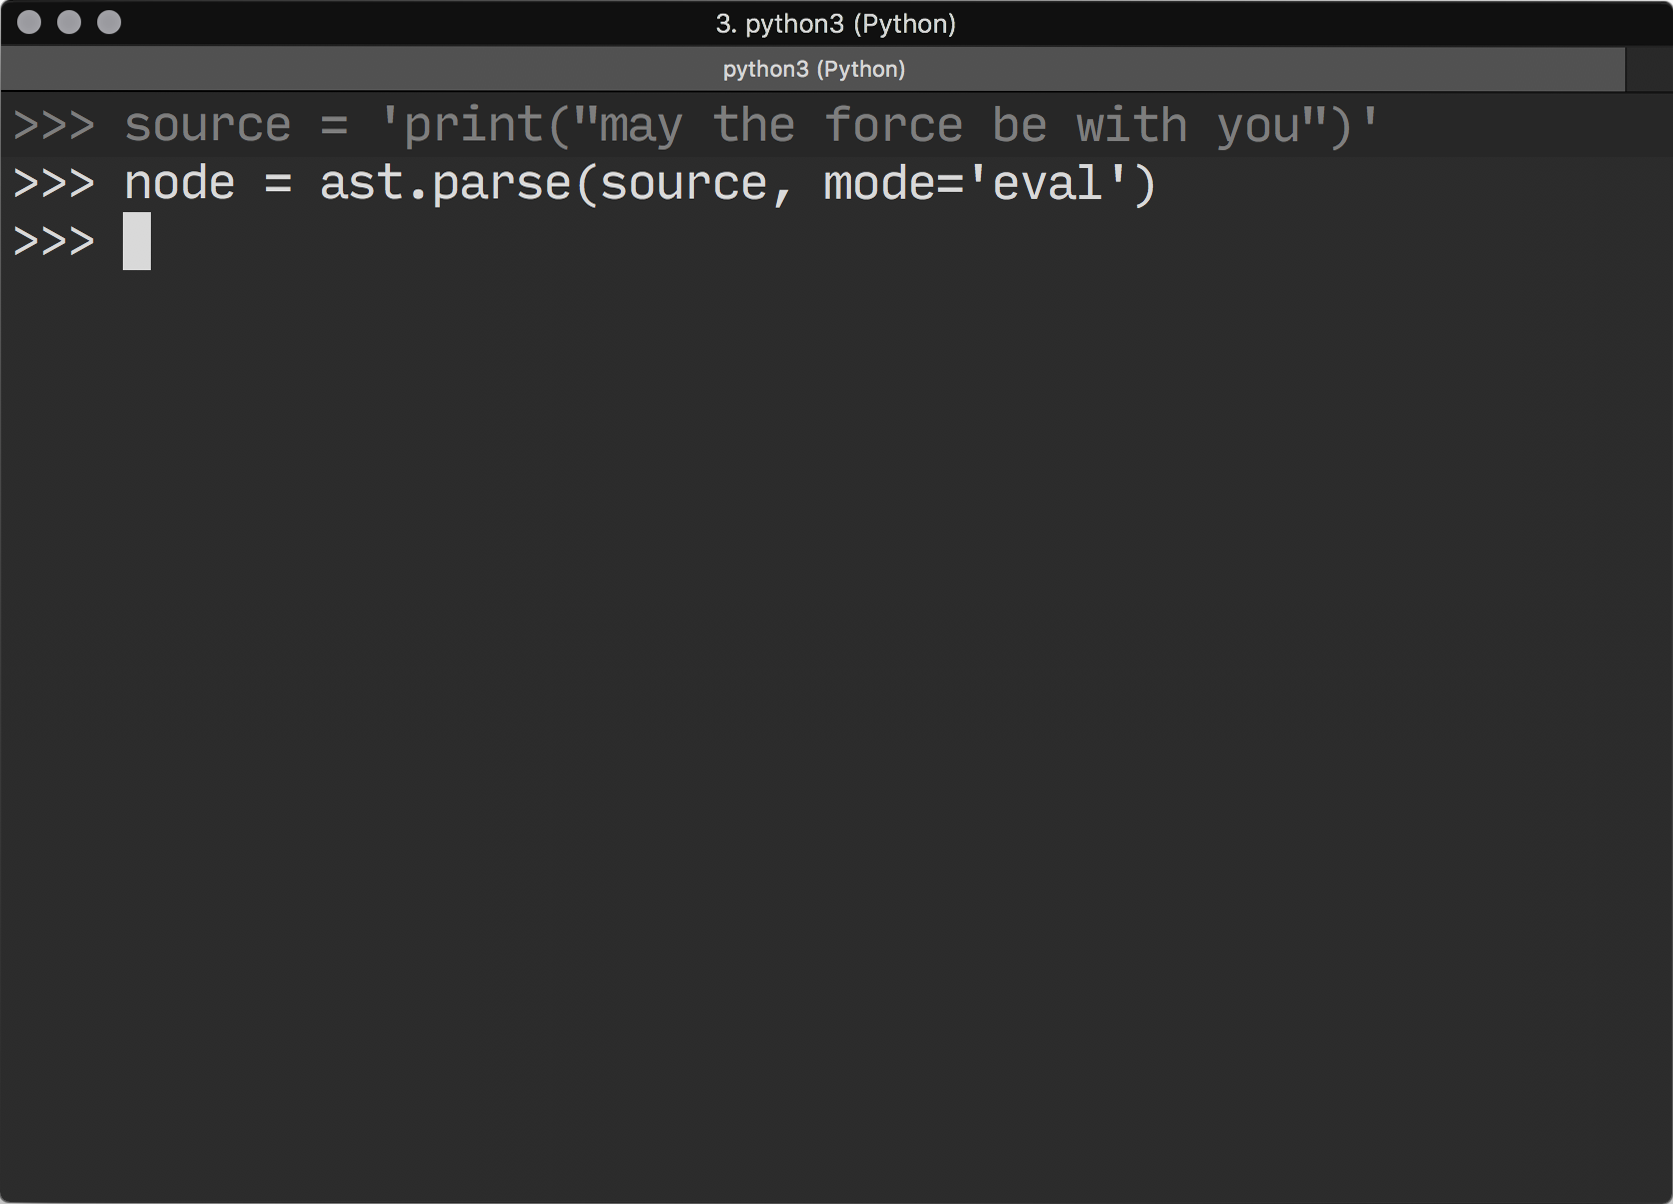
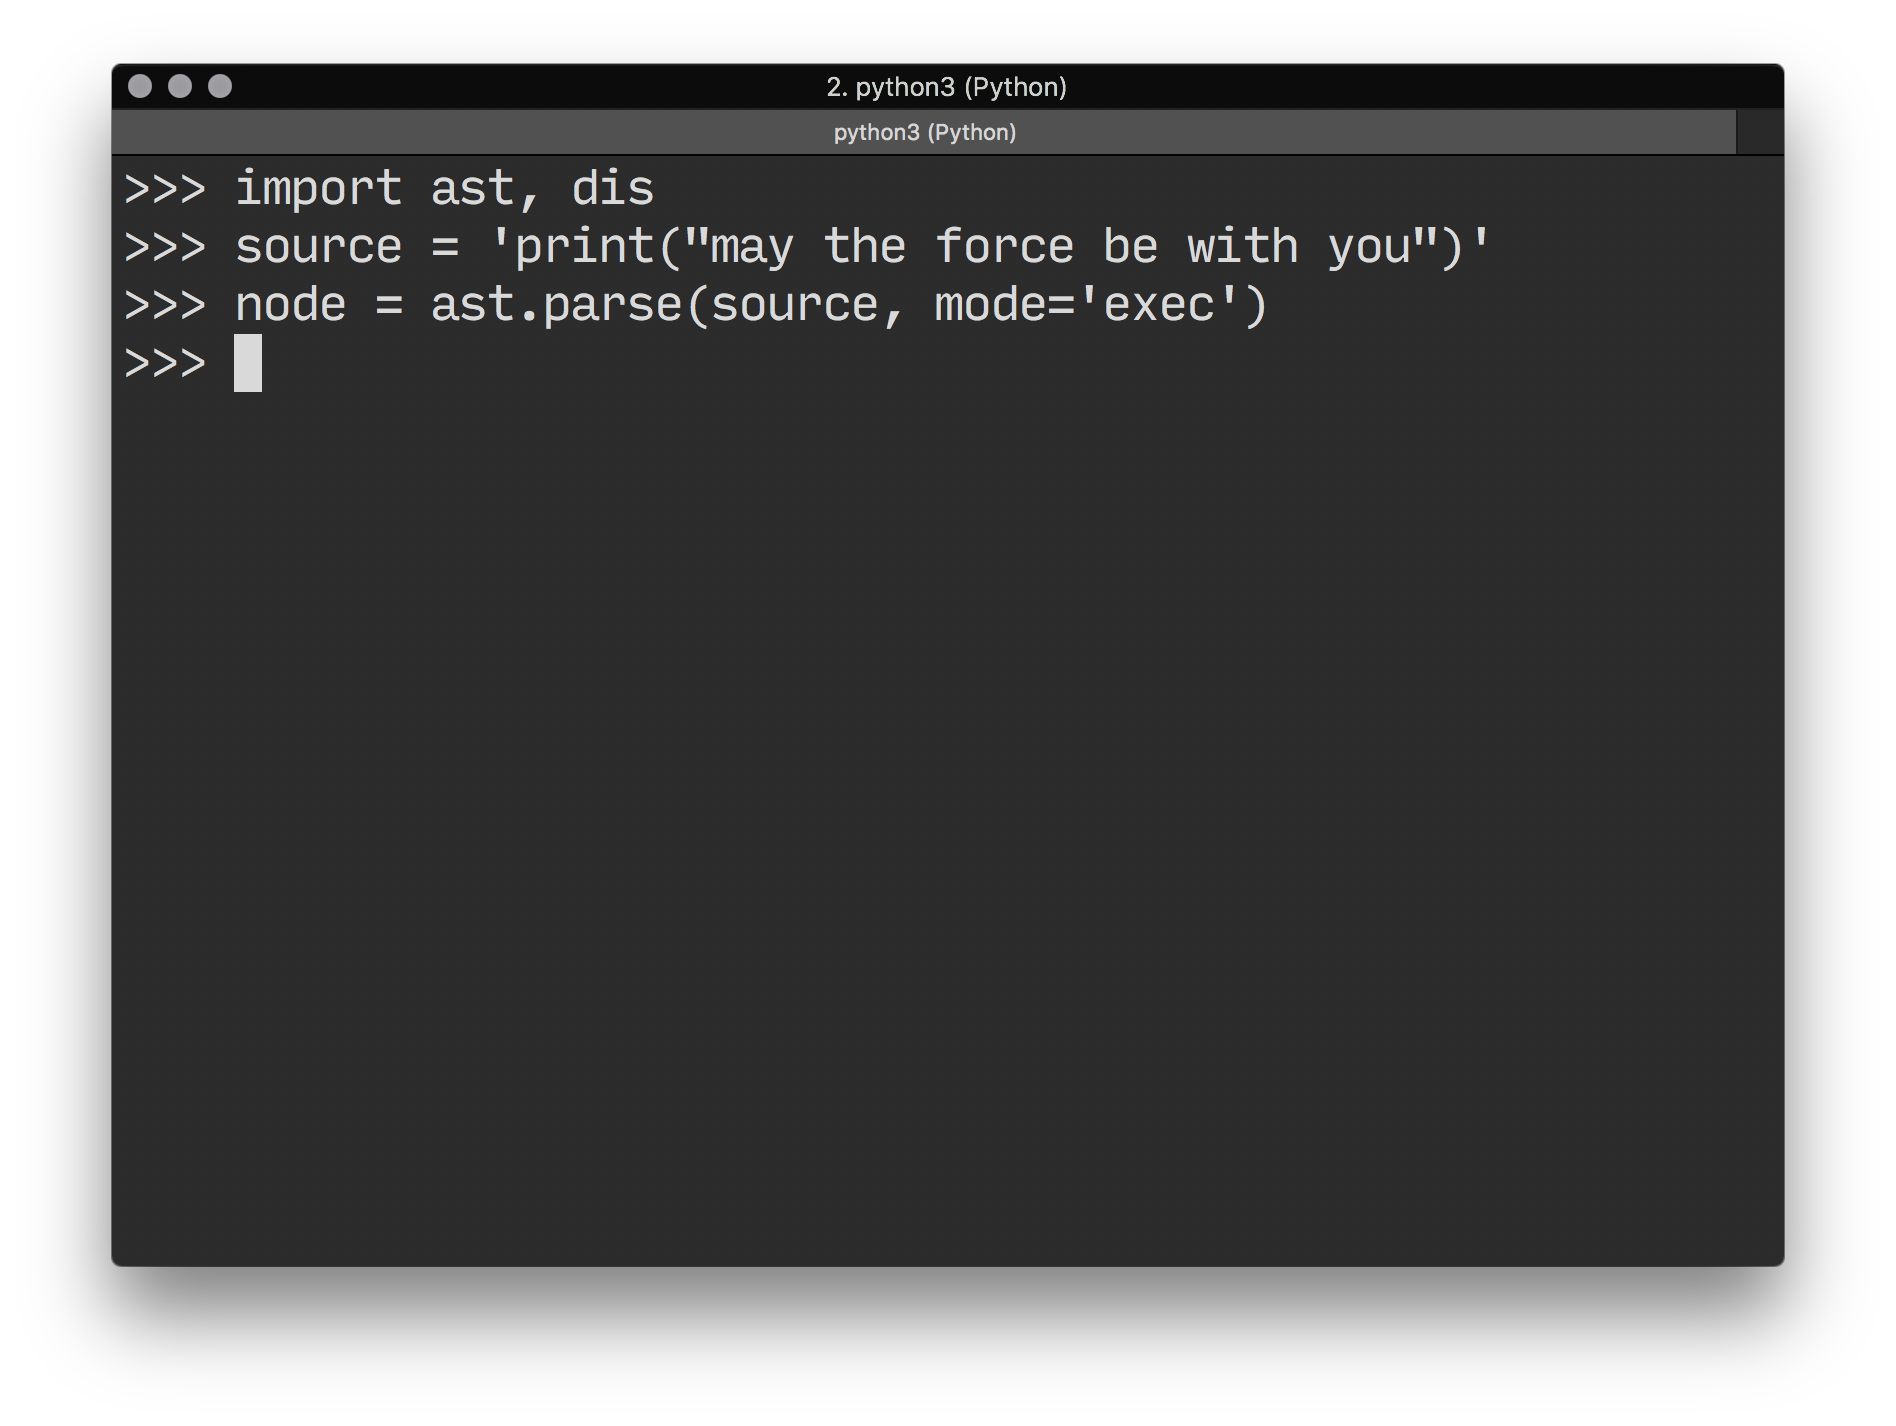
Updated demo images for code walkthrough to use exec instead of eval. (Still need to edit these to add opacity).

diff --git a/index.html b/index.html
@@ -592,14 +592,20 @@
                     </ul>
                     <aside class="notes">
                         Some of these don't fully work with Python 3, but they work for the most part.
-                        Since we're all using Python 3 now, right?
+                    </aside>
+                </section>
+
+                <section class="demo ast-demo" data-transition="none">
+                    <img class="ast-demo__code" data-src="img/demo/0 - import.png" />
+                    <aside class="notes">
+                        We'll first import the built-in modules that we need.
                     </aside>
                 </section>
 
                 <section class="demo ast-demo" data-transition="none">
                     <img class="ast-demo__code" data-src="img/demo/1 - source.png" />
                     <aside class="notes">
-                        We'll start with a very simple piece of Python code - a print statement
+                        Then we'll start with a very simple piece of Python code - a print statement
                         that takes a string as its argument.
                         <br><br>
                         We can then generate its AST...
@@ -651,7 +657,10 @@
                 </section>
 
                 <section class="demo ast-demo" data-transition="none">
-                    <img class="ast-demo__code" data-src="img/demo/5 - eval.png" />
+                    <img class="ast-demo__code" data-src="img/demo/5 - exec.png" />
+                    <aside class="notes">
+                        ... which we can now run using `exec`.
+                    </aside>
                     <aside class="notes">
                         ... which we can now run using `eval`.
                     </aside>
@@ -660,13 +669,13 @@
                 <section class="demo ast-demo" data-transition="none">
                     <img class="ast-demo__code" data-src="img/demo/6 - pretty bytecode.png" />
                     <aside class="notes">
-                        Let's take a closer look at that bytecode though, because it wasn't very readable when we first saw it. We can force the interpreter to show us bytecode that's more legible to humans.
+                        Let's go back and take a closer look at out bytecode. We can force the interpreter to show us bytecode that's more legible to humans.
                         <br><br>Somewhere along the lines, our compiler makes sense of these bytes, but it would take a lot of time for us to go through the giant switch statement that handles opcodes to figure it our ourselves.
                     </aside>
                 </section>
 
                 <section class="demo ast-demo" data-transition="none">
-                    <img class="ast-demo__code" data-src="img/demo/7 - dis better.png" />
+                    <img class="ast-demo__code" data-src="img/demo/7 - dis.png" />
                     <aside class="notes">
                         We can use Python's disassembler to help us out. We can now see a clear depiction of what is going on -
                         <br><br>
